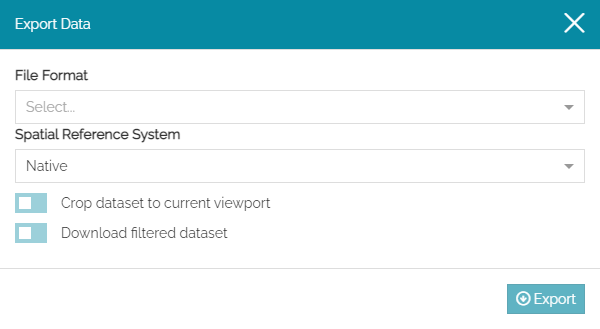
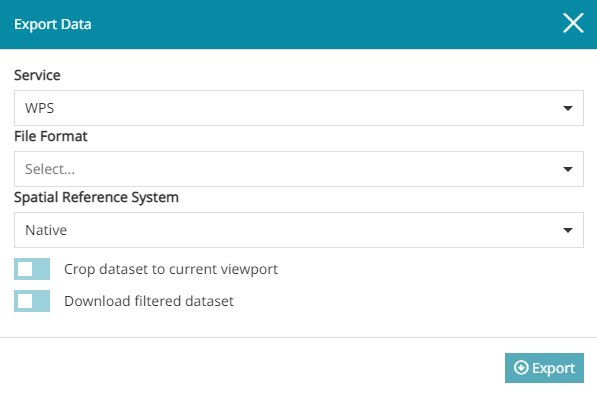
8654_userguide

diff --git a/docs/user-guide/export-data.md b/docs/user-guide/export-data.md
@@ -1,15 +1,18 @@
 # Export Layer Data
+
 **************************
 
-[MapStore](https://mapstore.geosolutionsgroup.com/mapstore/#/) allows to export both vector and raster layers present in  [TOC](toc.md#table-of-contents). In order to provide advanced export capabilities the[ WPS Download process](https://docs.geoserver.org/stable/en/user/community/wps-download/index.html) must be installed and available in GeoServer. MapStore performs a preventive check for this as soon as the user opens the tool: if the WPS Download process is not available, MapStore uses the WFS service as fallback and the export options are limited (eg. only vector data can be exported). 
+[MapStore](https://mapstore.geosolutionsgroup.com/mapstore/#/) allows to export both vector and raster layers present in  [TOC](toc.md#table-of-contents). In order to provide advanced export capabilities the[WPS Download process](https://docs.geoserver.org/stable/en/user/community/wps-download/index.html) must be installed and available in GeoServer. MapStore performs a preventive check for this as soon as the user opens the tool: if the WPS Download process is not available, MapStore uses the WFS service as fallback and the export options are limited (eg. only vector data can be exported).
 Once a layer is selected in the [TOC](toc.md#table-of-contents), the user can open the **Export Data** tool by clicking the <img src="../img/button/export_data.jpg" class="ms-docbutton"/> button available in the layer toolbar.
 
 <img src="../img/export_data/export_data_ex.jpg" class="ms-docimage"/>
 
 !!! note
-    Only for the **Vector layer**, the user can also download data by opening the Attribute Table <img src="../img/button/attributes-table.jpg" class="ms-docbutton"/> from the [TOC](toc.md#table-of-contents) and clicking the <img src="../img/button/export_data.jpg" class="ms-docbutton"/> button. 
+    Only for the **Vector layer**, the user can also download data by opening the Attribute Table <img src="../img/button/attributes-table.jpg" class="ms-docbutton"/> from the [TOC](toc.md#table-of-contents) and clicking the <img src="../img/button/export_data.jpg" class="ms-docbutton"/> button.
 
 From the **Export Data** panel the user can:
+
+* Select the **Service**, choosing between `WPS`and `WFS` (this option is present in the form only if the WPS Download process is available, otherwise the WFS service will be added automatically).
 
 * Select the **File Format**. The list of formats depends on the availability of the WPS Download process in GeoServer. If the WPS process is available, the user can choose between `GeoJSON`, `wfs-collection-1.0`, `wfs-collection-1.1`, `Shapefile` and `CSV` for *vector layers*, and between `ArcGrid`, `TIFF`, `PNG`, `JPEG`, in case of *raster layers*. If the WPS Download process is not available for some reasons, MapStore provides the list of formats valid for the WFS service by looking at the ones offered by the services capabilities (WFS Capabilities).
 
@@ -23,10 +26,10 @@ From the **Export Data** panel the user can:
 
 * Only for *Raster layer* (and if the WPS Download process is available) the user can open the **Advanced options** to choose:
 
-- The **Compression type** used to store internal tiles (`CCITT RLE`, `LZW`, `JPEG`, `ZLip`, `PackBits` or `Deflate`)
-- The **Compression quality** for lossy compression (JPEG). Value is in the range [0 : 1] where 0 is for worst quality/higher compression and 1 is for best quality/lower compression
-- Tile **Width** of internal tiles, in pixels
-- Tile **Height** of internal tiles, in pixels
+* The **Compression type** used to store internal tiles (`CCITT RLE`, `LZW`, `JPEG`, `ZLip`, `PackBits` or `Deflate`)
+* The **Compression quality** for lossy compression (JPEG). Value is in the range [0 : 1] where 0 is for worst quality/higher compression and 1 is for best quality/lower compression
+* Tile **Width** of internal tiles, in pixels
+* Tile **Height** of internal tiles, in pixels
 
 <img src="../img/export_data/export_data_raster.jpg" class="ms-docimage"/>
 
@@ -40,6 +43,6 @@ The **Export Data Result** provides the list of exports processes started by the
 
 * Check for eventual reported errors: a specific icon informs the user that the process failed with a popup message.
 
-* **Download** the final `zip` file: clicking the <img src="../img/button/save-changes.jpg" class="ms-docbutton"/> button 
+* **Download** the final `zip` file: clicking the <img src="../img/button/save-changes.jpg" class="ms-docbutton"/> button
 
 * **Remove** the final `zip` file: clicking the <img src="../img/button/delete_button.jpg" class="ms-docbutton"/> button
